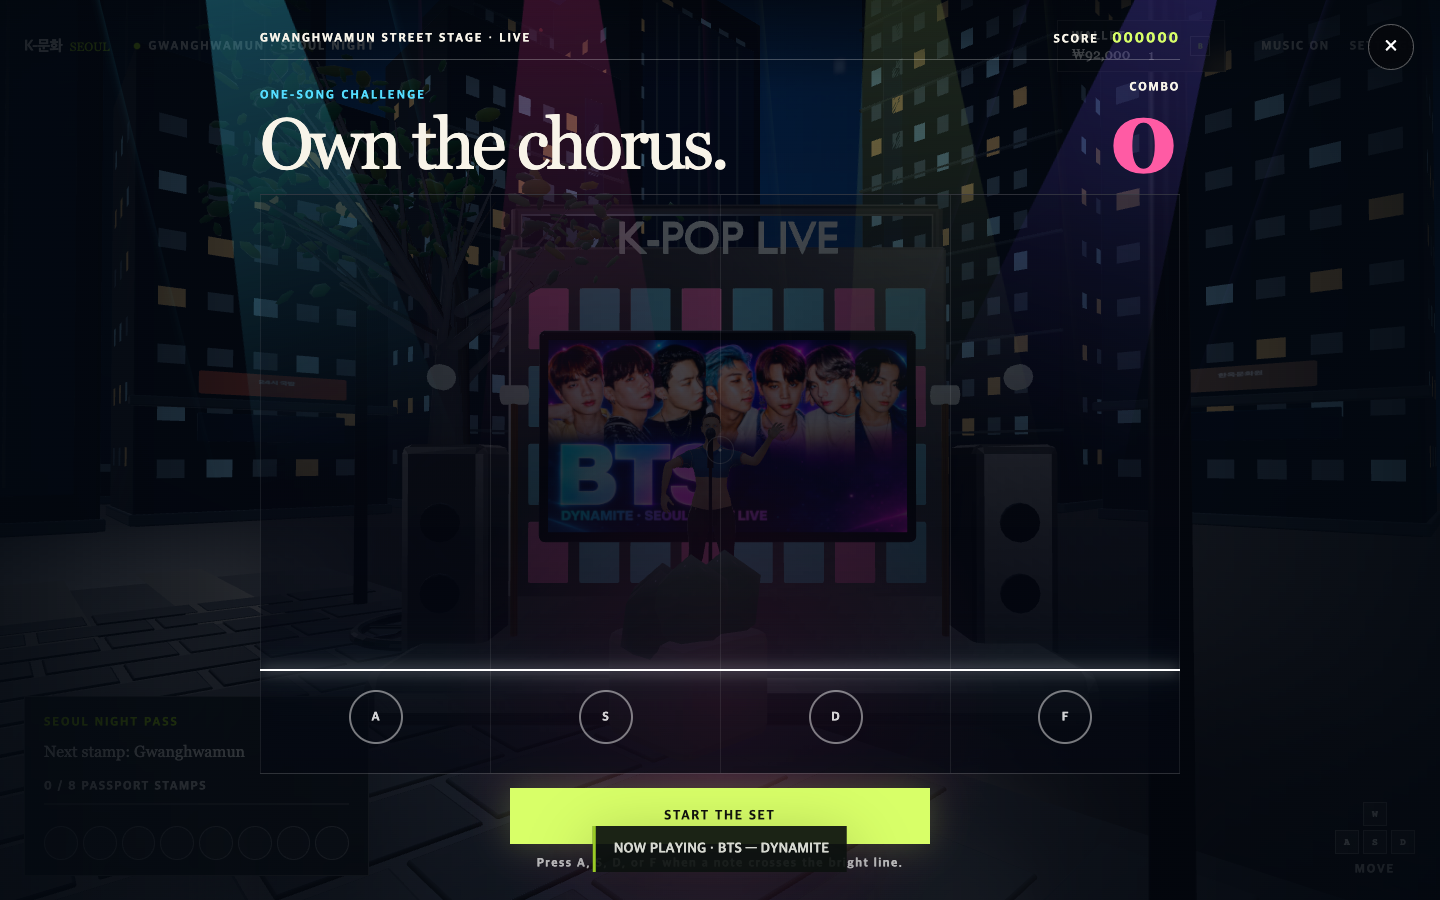
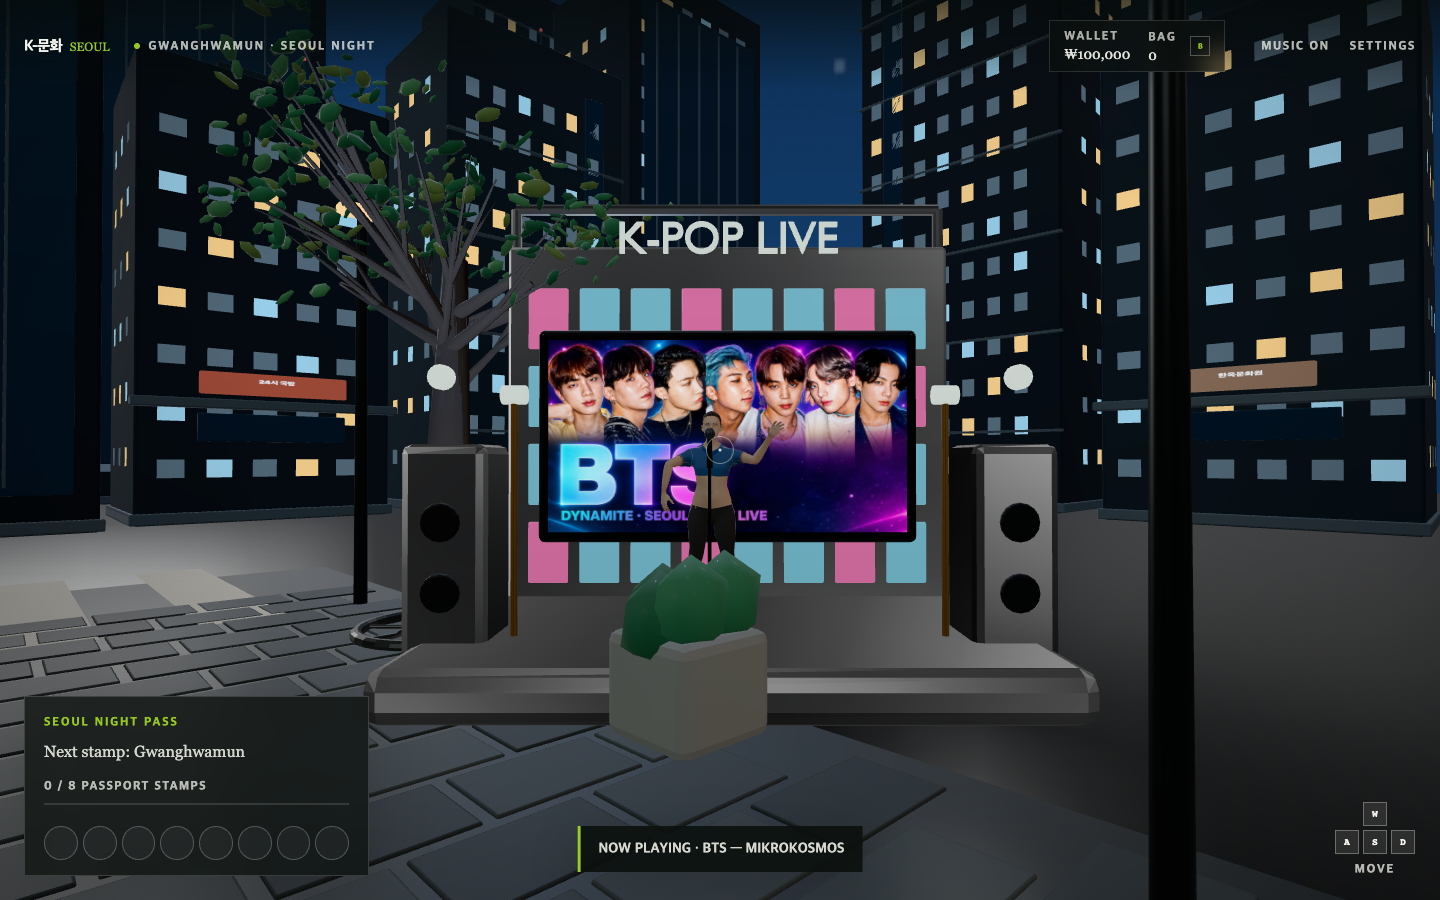
feat: add Gwanghwamun lead image to Seoul 1147

diff --git a/tests/portfolio-archive.test.js b/tests/portfolio-archive.test.js
@@ -100,7 +100,7 @@ test('requested screenshots stay in the intended card and order with accessible 
     '서울어린이대공원 통합관제': ['seoul-cctv/1.jpg', 'seoul-cctv/2.png', 'seoul-cctv/3.png'],
     '연애 시뮬레이션': ['romance-simulation/1.png', 'romance-simulation/2.png', 'romance-simulation/3.png', 'romance-simulation/4.png'],
     'MODAL SHIFT 2.0': ['dosim-mulyu-hub/1.png', 'dosim-mulyu-hub/2.png', 'dosim-mulyu-hub/3.png', 'dosim-mulyu-hub/4.png'],
-    '서울 1147': ['seoul-1147/1.png', 'seoul-1147/2.png', 'seoul-1147/3.png', 'seoul-1147/4.png', 'seoul-1147/5.png', 'seoul-1147/6.png'],
+    '서울 1147': ['seoul-1147/1.png', 'seoul-1147/2.png', 'seoul-1147/3.png', 'seoul-1147/4.png', 'seoul-1147/5.png', 'seoul-1147/6.png', 'seoul-1147/7.png'],
     '부품제작': ['bupum-jejak/1.png', 'bupum-jejak/2.png', 'bupum-jejak/3.png', 'bupum-jejak/4.png'],
   };
 
@@ -124,7 +124,7 @@ test('new PNG screenshots retain the portfolio capture resolution', () => {
     ...['2.png', '3.png'].map((file) => `seoul-cctv/${file}`),
     ...['2.png', '3.png', '4.png'].map((file) => `romance-simulation/${file}`),
     ...['2.png', '3.png', '4.png'].map((file) => `dosim-mulyu-hub/${file}`),
-    ...['1.png', '2.png', '3.png', '4.png', '5.png', '6.png'].map((file) => `seoul-1147/${file}`),
+    ...['1.png', '2.png', '3.png', '4.png', '5.png', '6.png', '7.png'].map((file) => `seoul-1147/${file}`),
     ...['1.png', '2.png', '3.png', '4.png'].map((file) => `bupum-jejak/${file}`),
   ];
 
@@ -135,17 +135,19 @@ test('new PNG screenshots retain the portfolio capture resolution', () => {
   }
 });
 
-test('Seoul 1147 uses the approved e8369fc screenshot refresh', () => {
+test('Seoul 1147 uses the approved screenshot set with a Gwanghwamun lead image', () => {
   const seoul = projectChunks().find((chunk) => chunk.includes('<h3>서울 1147'));
   const approvedHashes = {
[13 lines of base64/hex data omitted]
   };
   const approvedAltText = [
+    '광화문과 세종대왕상을 담은 서울 1147의 3D 야경 대표 화면',
     'BTS 다이너마이트 빌보드와 라이브 가수가 있는 서울 1147 K-팝 무대',
     'BTS 다이너마이트 음악과 함께 진행하는 K-팝 버스킹 리듬 게임',
     '자신감 포즈를 선택한 서울 셀프 포토 스튜디오 화면',

diff --git a/index.html b/index.html
@@ -662,12 +662,13 @@ footer .fin{display:flex;justify-content:space-between;align-items:center;flex-w
          </div>
        </div>
        <div class="wshots">
-         <div class="wshot"><img src="assets/projects/seoul-1147/1.png" alt="BTS 다이너마이트 빌보드와 라이브 가수가 있는 서울 1147 K-팝 무대" loading="lazy"></div>
-         <div class="wshot"><img src="assets/projects/seoul-1147/2.png" alt="BTS 다이너마이트 음악과 함께 진행하는 K-팝 버스킹 리듬 게임" loading="lazy"></div>
-         <div class="wshot"><img src="assets/projects/seoul-1147/3.png" alt="자신감 포즈를 선택한 서울 셀프 포토 스튜디오 화면" loading="lazy"></div>
-         <div class="wshot"><img src="assets/projects/seoul-1147/4.png" alt="떡볶이 어묵 소주를 선택하는 서울 포장마차 주문 화면" loading="lazy"></div>
-         <div class="wshot"><img src="assets/projects/seoul-1147/5.png" alt="K-뷰티 제품 여섯 종을 체험하는 서울 1147 올리브영 매장 내부" loading="lazy"></div>
-         <div class="wshot"><img src="assets/projects/seoul-1147/6.png" alt="올리브영 토리든 다이브인 세럼 제품 상세와 구매 화면" loading="lazy"></div>
+         <div class="wshot"><img src="assets/projects/seoul-1147/1.png" alt="광화문과 세종대왕상을 담은 서울 1147의 3D 야경 대표 화면" loading="lazy"></div>
+         <div class="wshot"><img src="assets/projects/seoul-1147/2.png" alt="BTS 다이너마이트 빌보드와 라이브 가수가 있는 서울 1147 K-팝 무대" loading="lazy"></div>
+         <div class="wshot"><img src="assets/projects/seoul-1147/3.png" alt="BTS 다이너마이트 음악과 함께 진행하는 K-팝 버스킹 리듬 게임" loading="lazy"></div>
+         <div class="wshot"><img src="assets/projects/seoul-1147/4.png" alt="자신감 포즈를 선택한 서울 셀프 포토 스튜디오 화면" loading="lazy"></div>
+         <div class="wshot"><img src="assets/projects/seoul-1147/5.png" alt="떡볶이 어묵 소주를 선택하는 서울 포장마차 주문 화면" loading="lazy"></div>
+         <div class="wshot"><img src="assets/projects/seoul-1147/6.png" alt="K-뷰티 제품 여섯 종을 체험하는 서울 1147 올리브영 매장 내부" loading="lazy"></div>
+         <div class="wshot"><img src="assets/projects/seoul-1147/7.png" alt="올리브영 토리든 다이브인 세럼 제품 상세와 구매 화면" loading="lazy"></div>
        </div>
      </div>
    </div>
